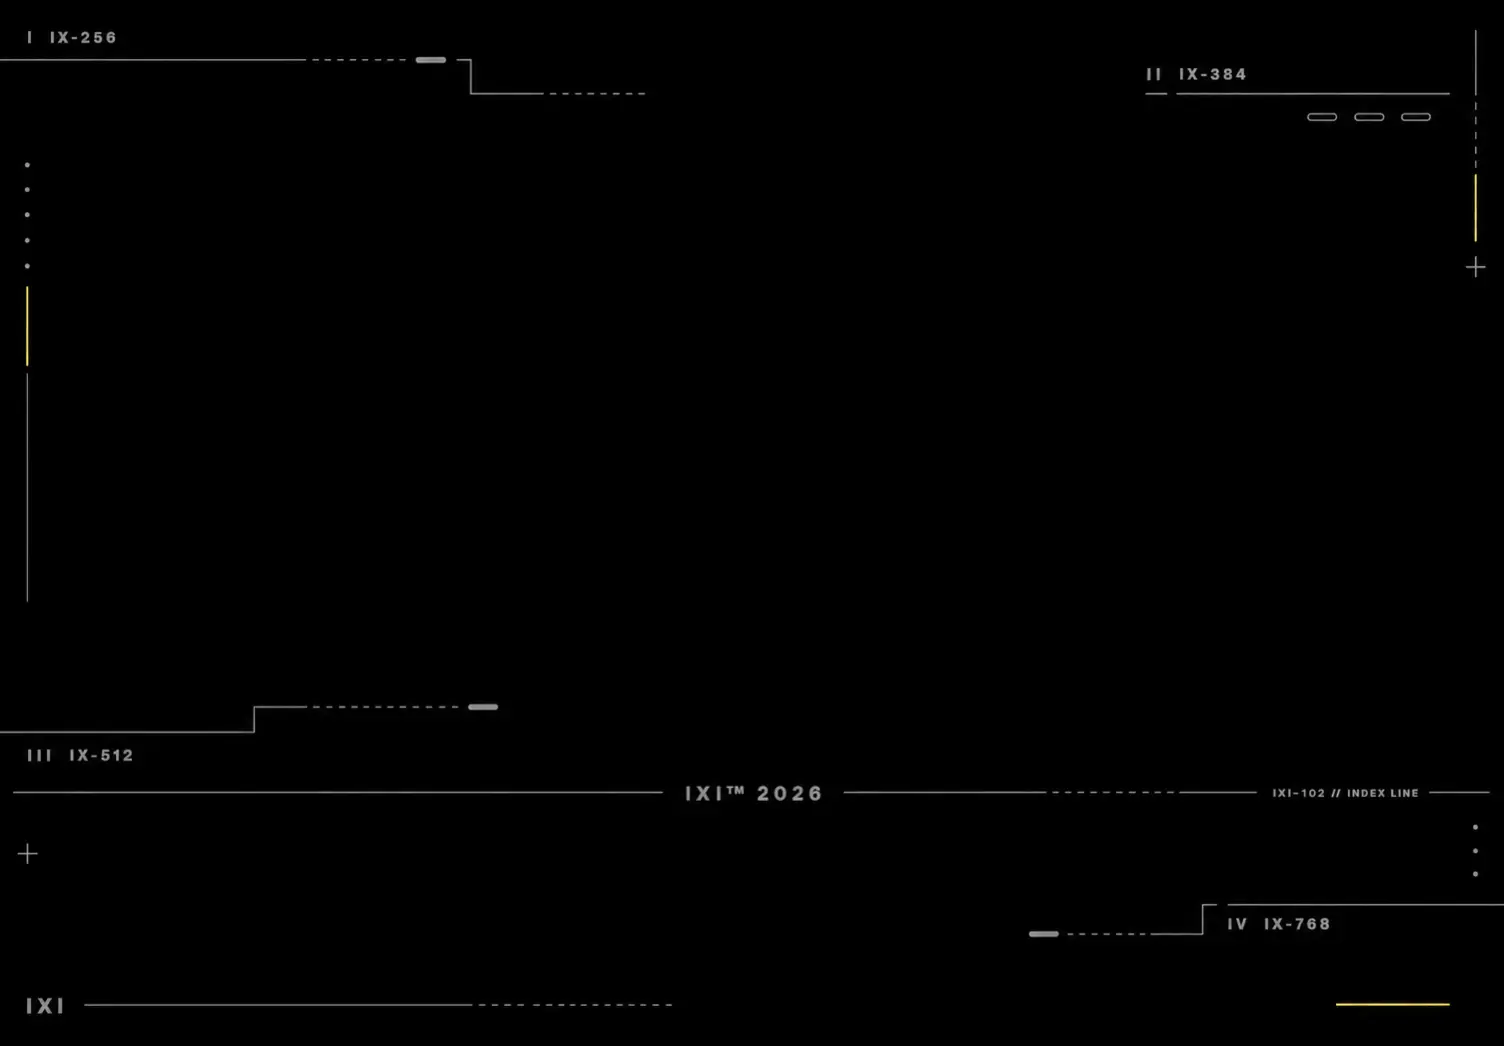
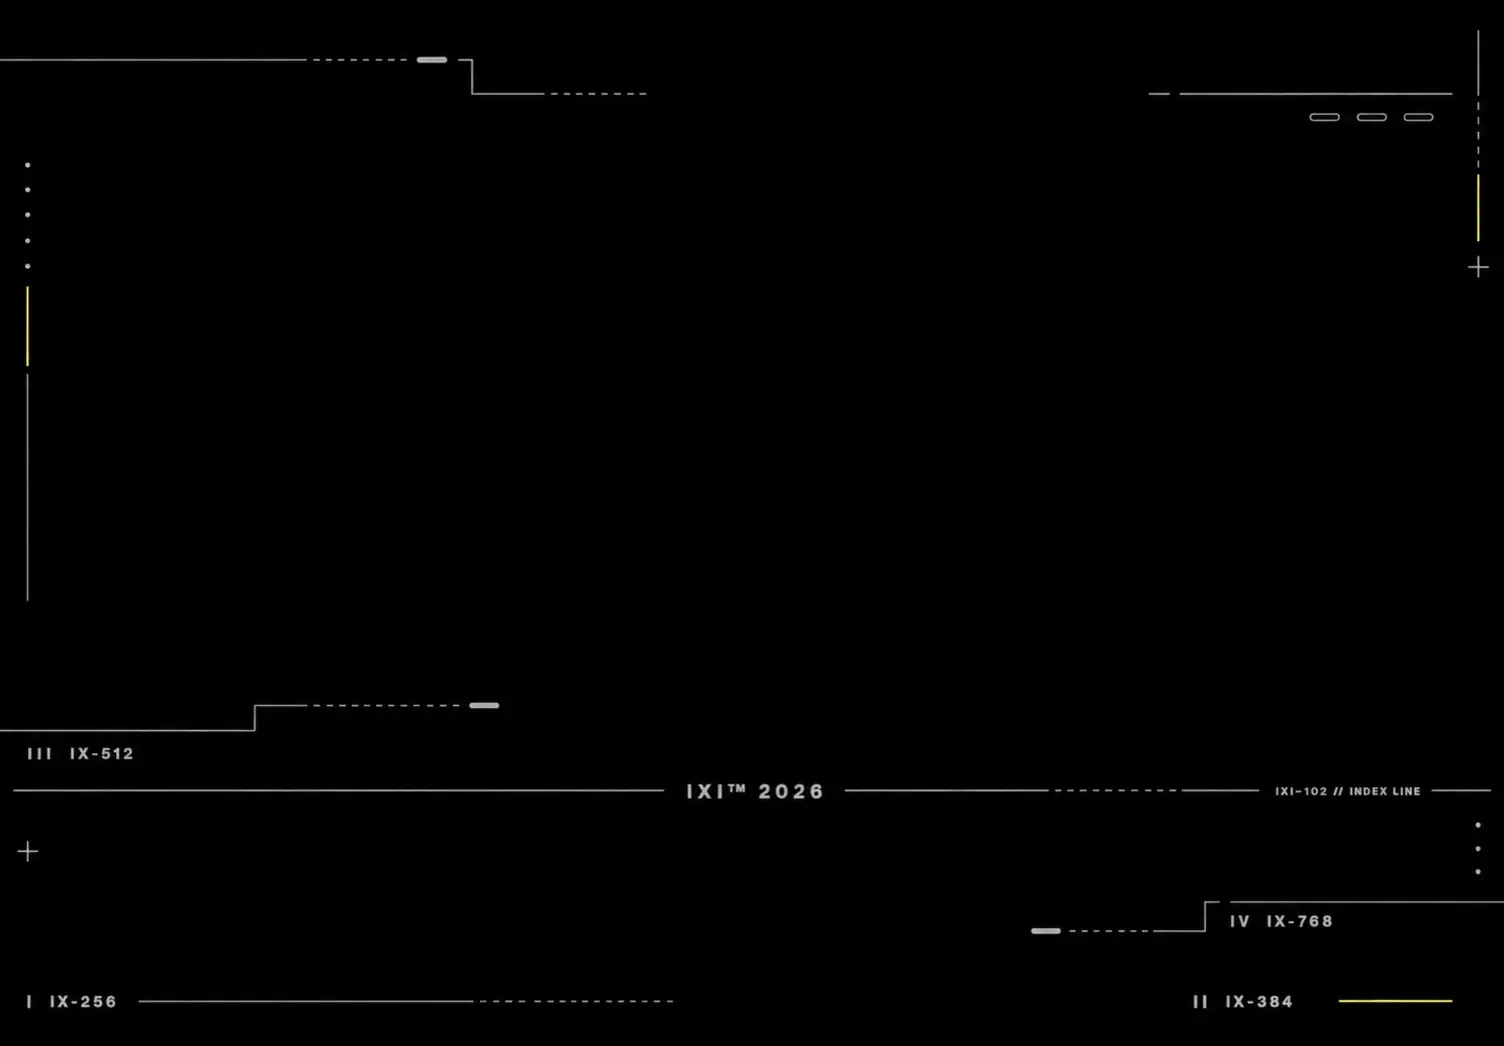
Move AOS skin labels below rail and add IXI-105

diff --git a/components/ixi-aos/board-skin-runtime/IXIAosBoardSkinLibrary.js b/components/ixi-aos/board-skin-runtime/IXIAosBoardSkinLibrary.js
@@ -10,7 +10,8 @@ export const IXI_AOS_BOARD_SKIN_IDS =
     IXI_101: "ixi-101",
     IXI_102: "ixi-102",
     IXI_103: "ixi-103",
-    IXI_104: "ixi-104"
+    IXI_104: "ixi-104",
+    IXI_105: "ixi-105"
   });
 
 export const IXI_AOS_BOARD_SKINS =
@@ -49,6 +50,13 @@ export const IXI_AOS_BOARD_SKINS =
       designation: "BLACK TOPO",
       description: "Jet-black survey field with sparse contour lines and calibrated elevation marks.",
       className: "aos-work-board-skin-ixi-104"
+    }),
+    Object.freeze({
+      skinId: IXI_AOS_BOARD_SKIN_IDS.IXI_105,
+      name: "IXI-105",
+      designation: "BLACK SIGNAL",
+      description: "Jet-black diagnostic field with sparse telemetry traces and active signal pulses.",
+      className: "aos-work-board-skin-ixi-105"
     })
   ]);
 

diff --git a/components/ixi-aos/board-skin-runtime/IXIAosBoardSkinPicker.jsx b/components/ixi-aos/board-skin-runtime/IXIAosBoardSkinPicker.jsx
@@ -250,10 +250,17 @@ export default function IXIAosBoardSkinPicker({
           background-size: cover;
         }
 
+        .preview-ixi-105 {
+          background-image: url('/images/ixi-aos-board-ixi-105.webp');
+          background-position: center;
+          background-size: cover;
+        }
+
         .preview-ixi-101 b,
         .preview-ixi-102 b,
         .preview-ixi-103 b,
-        .preview-ixi-104 b {
+        .preview-ixi-104 b,
+        .preview-ixi-105 b {
           color: transparent;
           font-size: 1px;
         }

diff --git a/pages/aos/work.js b/pages/aos/work.js
@@ -3657,6 +3657,11 @@ onReturnContainerChildren={
           background-image: url('/images/ixi-aos-board-ixi-104.webp');
         }
 
+        .aos-work-board-skin-ixi-105 {
+          background-color: #000;
+          background-image: url('/images/ixi-aos-board-ixi-105.webp');
+        }
+
         .aos-work-board-title {
           position: absolute;
           width: 1px;
